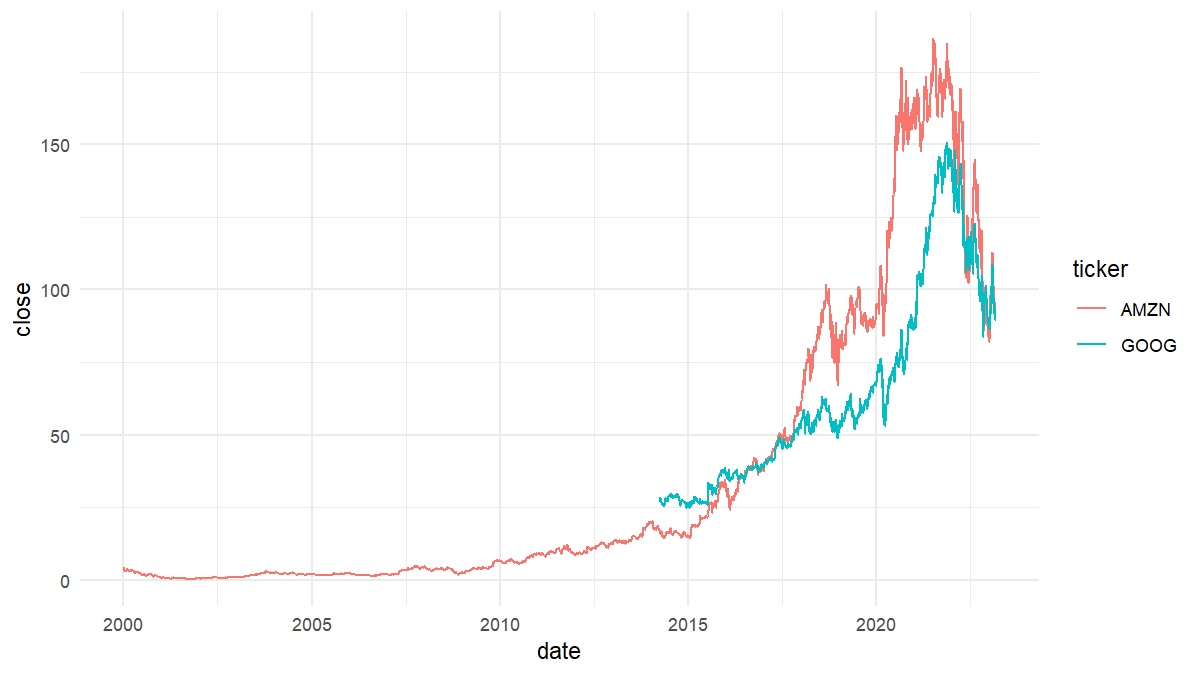
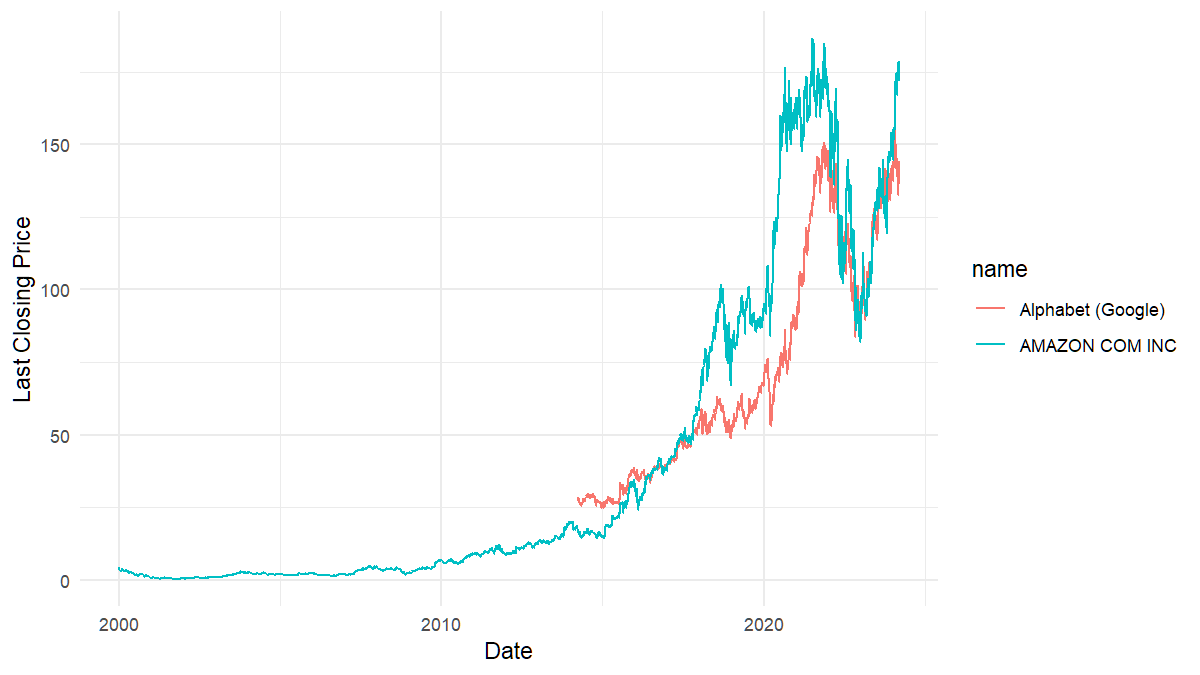
[#54] README.Rmd updated

diff --git a/README.md b/README.md
@@ -1,26 +1,16 @@
+# simfinapi <img src="man/figures/logo.png" align="right" height="139"/>
 
-# simfinapi <img src='man/figures/logo.png' align="right" height="139" />
-
-[![](https://img.shields.io/badge/lifecycle-experimental-orange.svg)](https://lifecycle.r-lib.org/articles/stages.html#experimental)
-[![CRAN
-release](https://www.r-pkg.org/badges/version/simfinapi)](https://CRAN.R-project.org/package=simfinapi)
-[![Status](https://www.repostatus.org/badges/latest/active.svg)](https://www.repostatus.org/#active)
-[![R-CMD-check](https://github.com/matthiasgomolka/simfinapi/workflows/R-CMD-check/badge.svg)](https://github.com/matthiasgomolka/simfinapi/actions)
-[![](https://codecov.io/gh/matthiasgomolka/simfinapi/branch/main/graph/badge.svg)](https://app.codecov.io/gh/matthiasgomolka/simfinapi)
-[![Dependencies](https://tinyverse.netlify.com/badge/simfinapi)](https://cran.r-project.org/package=simfinapi)
+[![](https://img.shields.io/badge/lifecycle-experimental-orange.svg)](https://lifecycle.r-lib.org/articles/stages.html#experimental) [![CRAN release](https://www.r-pkg.org/badges/version/simfinapi)](https://CRAN.R-project.org/package=simfinapi) [![Status](https://www.repostatus.org/badges/latest/active.svg)](https://www.repostatus.org/#active) [![R-CMD-check](https://github.com/matthiasgomolka/simfinapi/workflows/R-CMD-check/badge.svg)](https://github.com/matthiasgomolka/simfinapi/actions) [![](https://codecov.io/gh/matthiasgomolka/simfinapi/branch/main/graph/badge.svg)](https://app.codecov.io/gh/matthiasgomolka/simfinapi) [![Dependencies](https://tinyverse.netlify.com/badge/simfinapi)](https://cran.r-project.org/package=simfinapi)
 
 ## What does simfinapi do?
 
-simfinapi wraps the <https://www.simfin.com/> Web-API to make ‘SimFin’ data
-easily available in R.
+simfinapi wraps the <https://www.simfin.com/> Web-API to make ‘SimFin’ data easily available in R.
 
-*To use the package, you need to register at <https://app.simfin.com/login>
-and obtain a ‘SimFin’ API key.*
+*To use the package, you need to register at <https://app.simfin.com/login> and obtain a ‘SimFin’ API key.*
 
 ## Example
 
-In this example, we download some stock price data and turn these into a
-simple plot.
+In this example, we download some stock price data and turn these into a simple plot.
 
 ``` r
 # load package
@@ -30,22 +20,21 @@ devtools::load_all()
 
 # download stock price data
 tickers <- c("AMZN", "GOOG") # Amazon, Google
-prices <- sfa_get_prices(tickers)
+prices <- sfa_load_shareprices(tickers)
 ```
 
-Please note that all functions in simfinapi start with the prefix
-`sfa_`. This makes it easy to find all available functionality.
+Please note that all functions in simfinapi start with the prefix `sfa_`. This makes it easy to find all available functionality.
 
 The downloaded data looks like this:
 
-| id | ticker | date       | currency | open | high |  low | close | adj_close |    volume | dividend | common_shares_outstanding |
-|----------:|:-------|:-----------|:---------|-----:|-----:|-----:|------:|----------:|----------:|---------:|--------------------------:|
-|     62747 | AMZN   | 2000-01-03 | USD      | 4.08 | 4.48 | 4.00 |  4.47 |      4.47 | 322352000 |       NA |                        NA |
-|     62747 | AMZN   | 2000-01-04 | USD      | 4.27 | 4.58 | 4.09 |  4.10 |      4.10 | 349748000 |       NA |                        NA |
-|     62747 | AMZN   | 2000-01-05 | USD      | 3.54 | 3.76 | 3.48 |  3.59 |      3.59 | 769148000 |       NA |                        NA |
-|     62747 | AMZN   | 2000-01-06 | USD      | 3.57 | 3.63 | 3.20 |  3.28 |      3.28 | 375040000 |       NA |                        NA |
-|     62747 | AMZN   | 2000-01-07 | USD      | 3.35 | 3.52 | 3.31 |  3.48 |      3.48 | 210108000 |       NA |                        NA |
-|     62747 | AMZN   | 2000-01-10 | USD      | 3.63 | 3.63 | 3.28 |  3.46 |      3.46 | 295158000 |       NA |                        NA |
+| name              |  id | ticker | currency | Date       | Dividend Paid | Common Shares Outstanding | Last Closing Price | Adjusted Closing Price | Highest Price | Lowest Price | Opening Price | Trading Volume |
+|:------------------|----:|:-------|:---------|:-----------|--------------:|--------------------------:|-------------------:|-----------------------:|--------------:|-------------:|--------------:|---------------:|
+| Alphabet (Google) |  18 | GOOG   | USD      | 2014-03-27 |            NA |                6721016620 |              27.92 |                  27.92 |         28.40 |        27.65 |         28.40 |         262000 |
+| Alphabet (Google) |  18 | GOOG   | USD      | 2014-03-28 |            NA |                6721016620 |              28.00 |                  28.00 |         28.32 |        27.93 |         28.06 |         822000 |
+| Alphabet (Google) |  18 | GOOG   | USD      | 2014-03-31 |            NA |               13489240000 |              27.85 |                  27.85 |         28.35 |        27.85 |         28.34 |         216000 |
+| Alphabet (Google) |  18 | GOOG   | USD      | 2014-04-01 |            NA |               13489240000 |              28.36 |                  28.36 |         28.42 |        27.94 |         27.94 |         158000 |
+| Alphabet (Google) |  18 | GOOG   | USD      | 2014-04-02 |            NA |               13489240000 |              28.35 |                  28.35 |         30.24 |        28.11 |         28.26 |        2934000 |
+| Alphabet (Google) |  18 | GOOG   | USD      | 2014-04-03 |            NA |               13489240000 |              28.49 |                  28.49 |         29.36 |        28.21 |         28.49 |      101704000 |
 
 Let’s turn that into a simple plot.
 
@@ -55,41 +44,11 @@ library(ggplot2)
 
 # create plot
 ggplot(prices) +
-  aes(x = date, y = close, color = ticker) +
+  aes(x = Date, y = `Last Closing Price`, color = name) +
   geom_line()
 ```
 
-<img src="man/figures/README-plot_data-1.png" width="100%" />
-
-Suppose we would like to display the actual company name instead of the
-ticker. To do so, we download additional company information and merge
-it to the `prices` data:
-
-``` r
-company_info <- sfa_get_info(tickers)
-```
-
-`company_info` contains these information:
-
-| id | ticker | company_name      | industry_id | month_fy_end | number_employees | business_summary                                                                                                                                                                                                                                                |
-|----------:|:-------|:------------------|------------:|-------------:|-----------------:|:----------------------------------------------------------------------------------------------------------------------------------------------------------------------------------------------------------------------------------------------------------------|
-|     62747 | AMZN   | AMAZON COM INC    |      103002 |           12 |          1298000 | Amazon.com Inc is an online retailer. The Company sells its products through the website which provides services, such as advertising services and co-branded credit card agreements. It also offers electronic devices like Kindle e-readers and Fire tablets. |
-|        18 | GOOG   | Alphabet (Google) |      101002 |           12 |           135301 | Alphabet (formerly known as Google) offers a variety of IT services to individuals and corporations alike. Their main revenues come from online advertising.                                                                                                    |
-
-Now we merge both datasets and recreate the plot with the actual company
-names.
-
-``` r
-# merge data
-merged <- merge(prices, company_info, by = "ticker")
-
-# recreate plot
-ggplot(merged) +
-  aes(x = date, y = close, color = company_name) +
-  geom_line()
-```
-
-<img src="man/figures/README-recreate_plot-1.png" width="100%" />
+<img src="man/figures/README-plot_data-1.png" width="100%"/>
 
 ## Installation
 
@@ -99,9 +58,7 @@ From [CRAN](https://CRAN.R-project.org/package=simfinapi):
 install.packages("simfinapi")
 ```
 
-If you want to try out the newest features you may want to give the
-development version a try and install it from
-[GitHub](https://github.com/matthiasgomolka/simfinapi):
+If you want to try out the newest features you may want to give the development version a try and install it from [GitHub](https://github.com/matthiasgomolka/simfinapi):
 
 ``` r
 remotes::install_github("https://github.com/matthiasgomolka/simfinapi")
@@ -109,30 +66,10 @@ remotes::install_github("https://github.com/matthiasgomolka/simfinapi")
 
 ## Setup
 
-Using simfinapi is much more convenient if you set your API key and
-cache directory[^1] globally before you start downloading data. See
-`?sfa_set_api_key` and `?sfa_set_cache_dir` for details.
+Using simfinapi is much more convenient if you set your API key and cache directory[^readme-1] globally before you start downloading data. See `?sfa_set_api_key` and `?sfa_set_cache_dir` for details.
+
+[^readme-1]: simfinapi always caches the results from your API calls to obtain results quicker and to reduce the number of API calls. If you set the cache directory to a permanent directory (the default is `tempdir()`), simfinapi will be able to reuse this cache in subsequent R sessions.
 
 ## Code of Conduct
 
-Please note that the ‘simfinapi’ project is released with a [Contributor
-Code of
-Conduct](https://github.com/matthiasgomolka/simfinapi/blob/master/.github/CODE_OF_CONDUCT.md).
-By contributing to this project, you agree to abide by its terms.
-
-## Relation to `simfinR`
-
-In case you also found `simfinR`
-([CRAN](https://CRAN.R-project.org/package=simfinR),
-[GitHub](https://github.com/msperlin/simfinR/)) you might want to know
-about the differences between the `simfinapi` and `simfinR`. I tried to
-compile a list in [this
-issue](https://github.com/matthiasgomolka/simfinapi/issues/22#issuecomment-847270864).
-
-------------------------------------------------------------------------
-
-[^1]: simfinapi always caches the results from your API calls to obtain
-    results quicker and to reduce the number of API calls. If you set
-    the cache directory to a permanent directory (the default is
-    `tempdir()`), simfinapi will be able to reuse this cache in
-    subsequent R sessions.
+Please note that the ‘simfinapi’ project is released with a [Contributor Code of Conduct](https://github.com/matthiasgomolka/simfinapi/blob/master/.github/CODE_OF_CONDUCT.md). By contributing to this project, you agree to abide by its terms.
